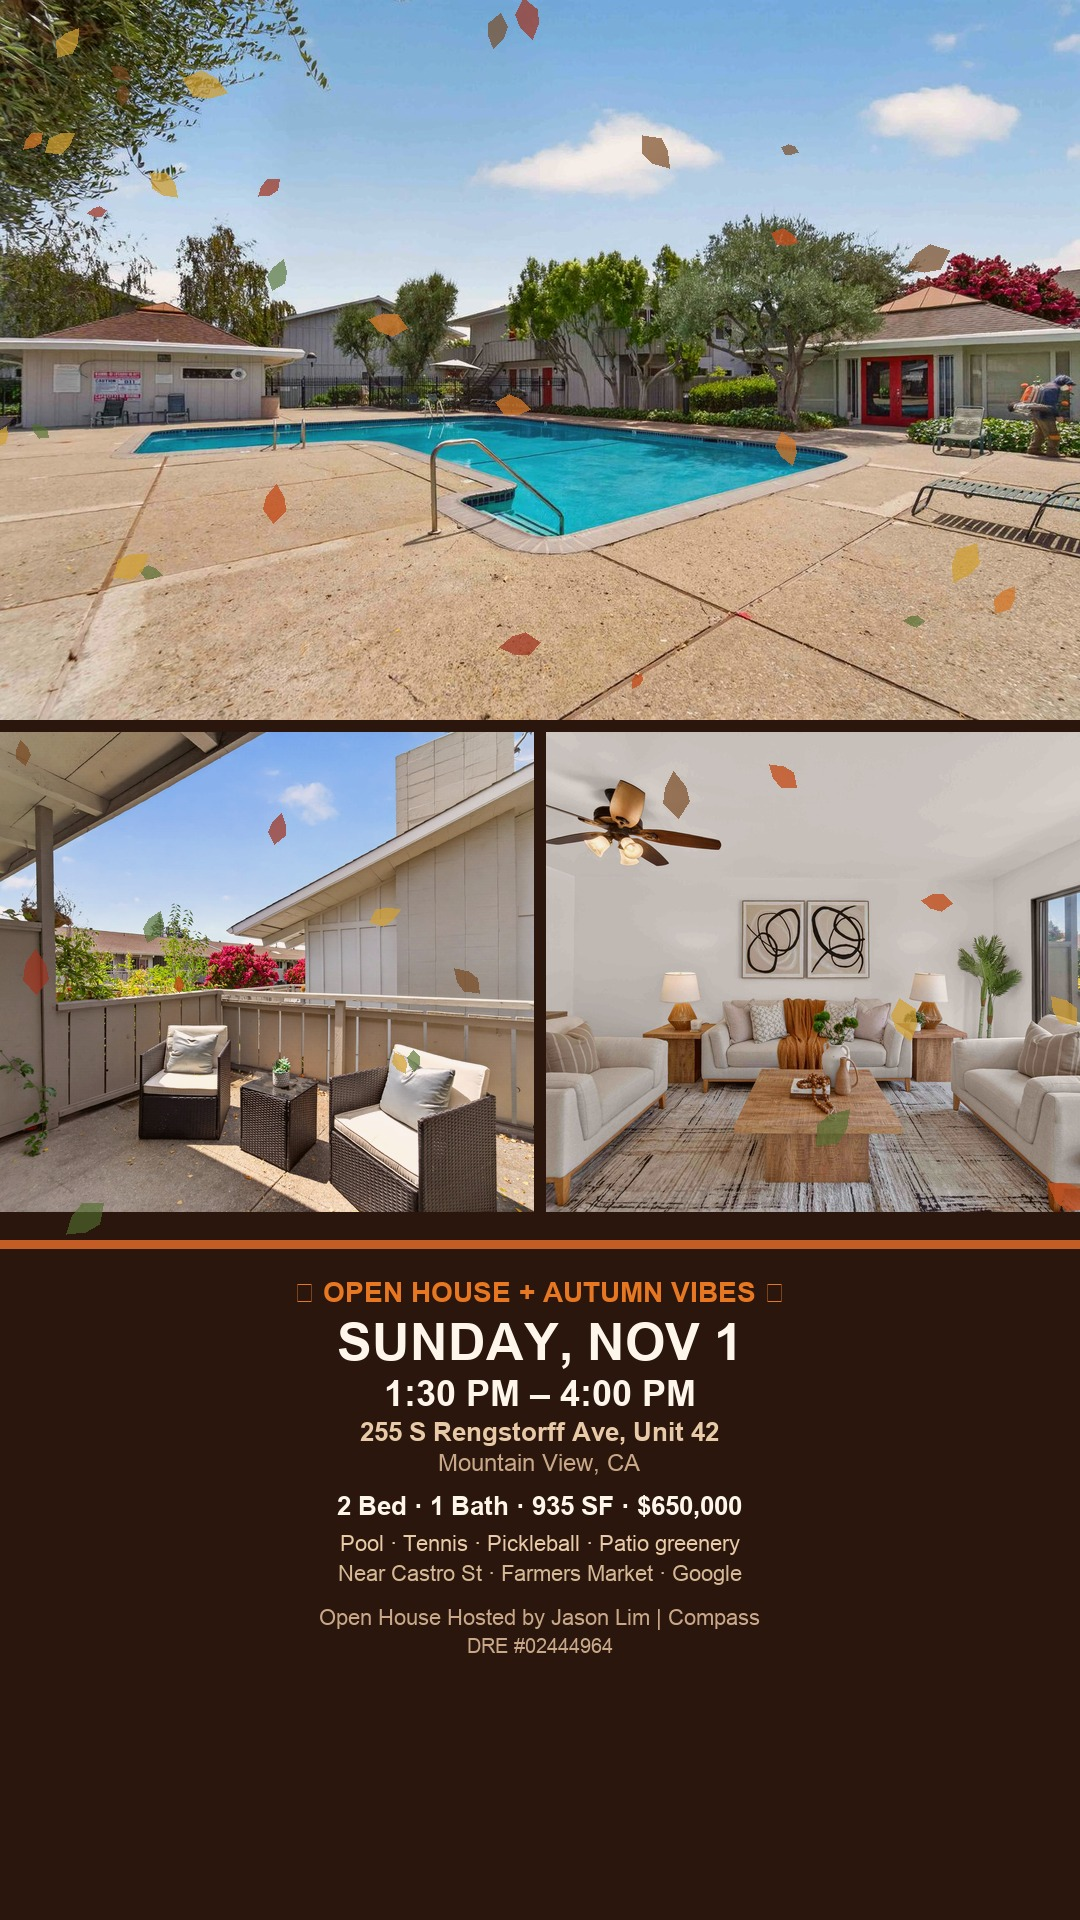
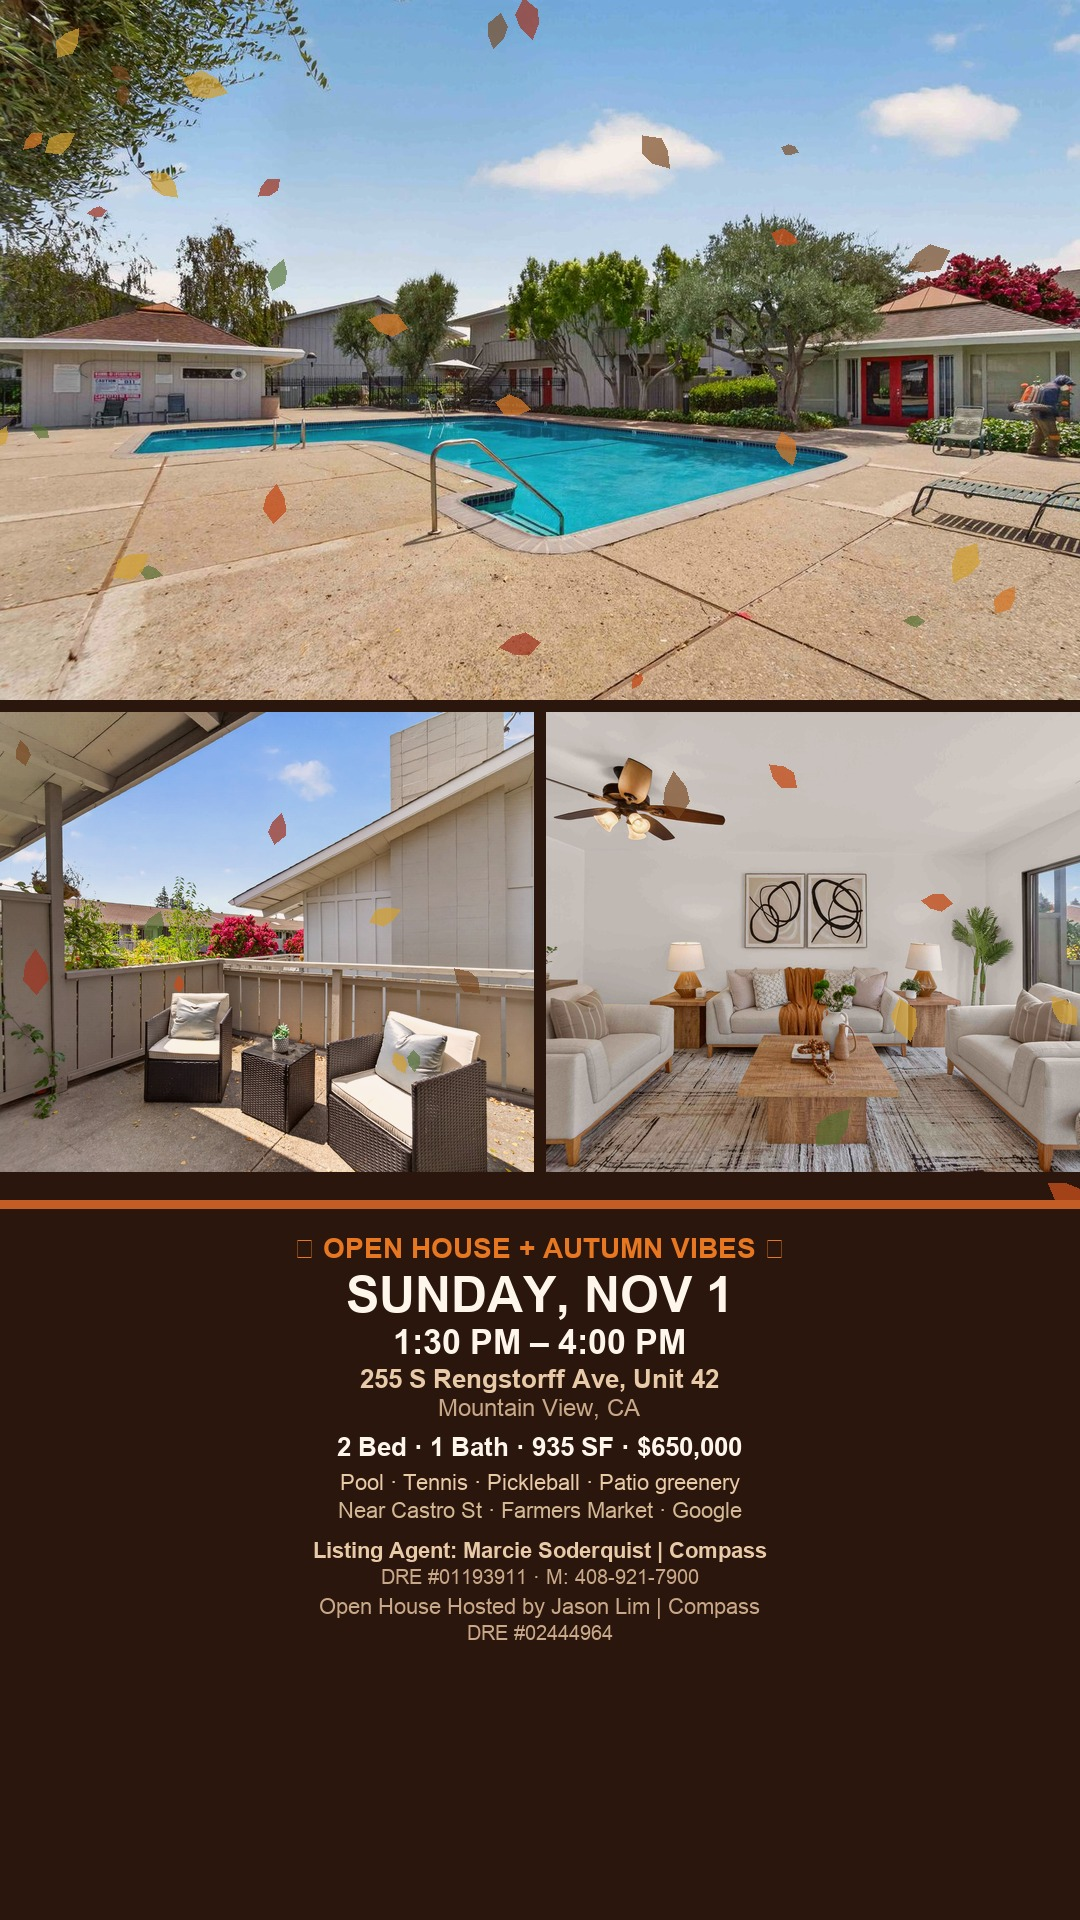
Credit Marcie Soderquist as listing agent on Rengstorff creatives.
Add Marcie Soderquist (DRE #01193911) to autumn open-house graphics
and blog copy; Jason remains open-house host.

Changed region(s): [[0.0, 0.3438, 1.0, 0.875]]

diff --git a/src/data/mock-blog.ts b/src/data/mock-blog.ts
@@ -42,6 +42,10 @@ Sunday — Spooky Open House #2
 
 A neighbor shared they bought in this community last year around $700K in a different market — so at $650K, this one feels fairly priced for what you get.
 
+Listing Agent: Marcie Soderquist | Compass | DRE #01193911 | M: 408-921-7900
+https://www.compass.com/agents/marcie-soderquist/
+Open House Hosted by Jason Lim | Compass | DRE #02444964
+
 Location & lifestyle highlights:
 • Downtown Mountain View / Castro Street nearby
 • Mountain View Farmers Market
